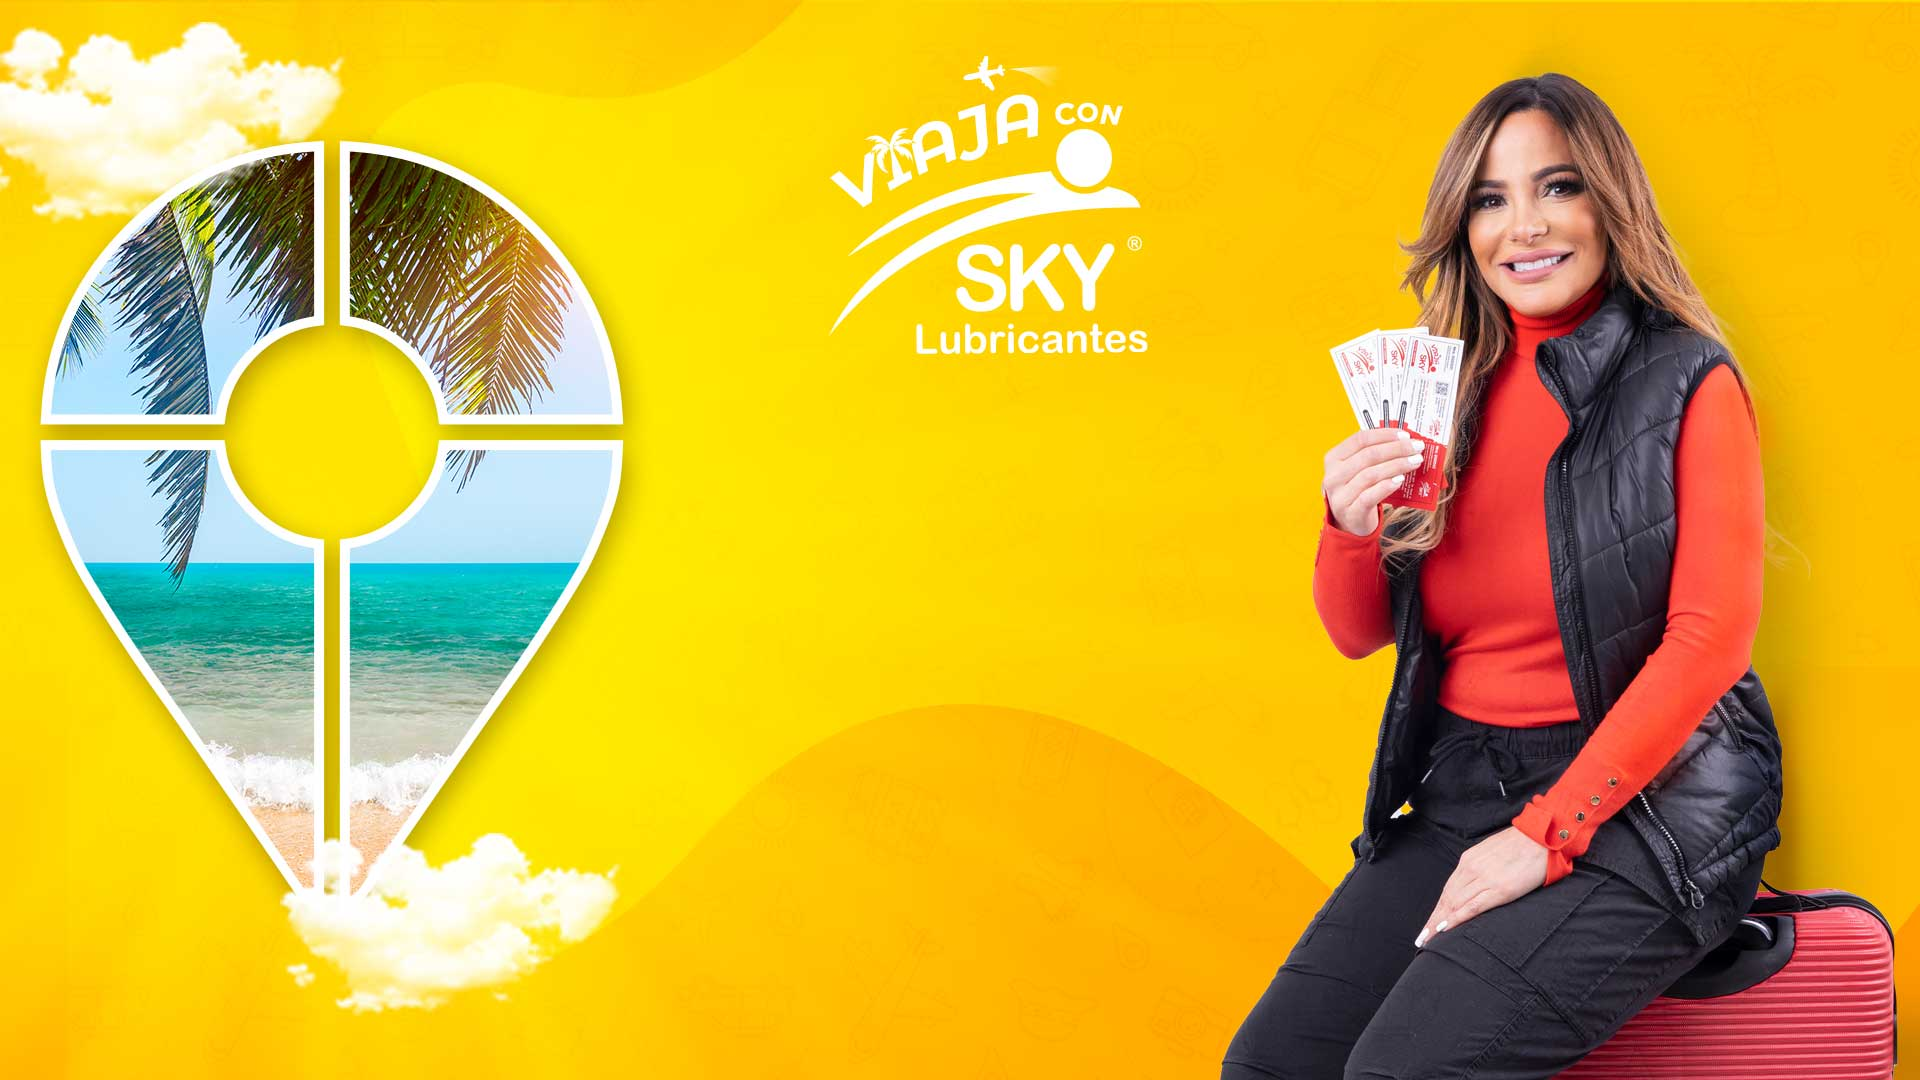
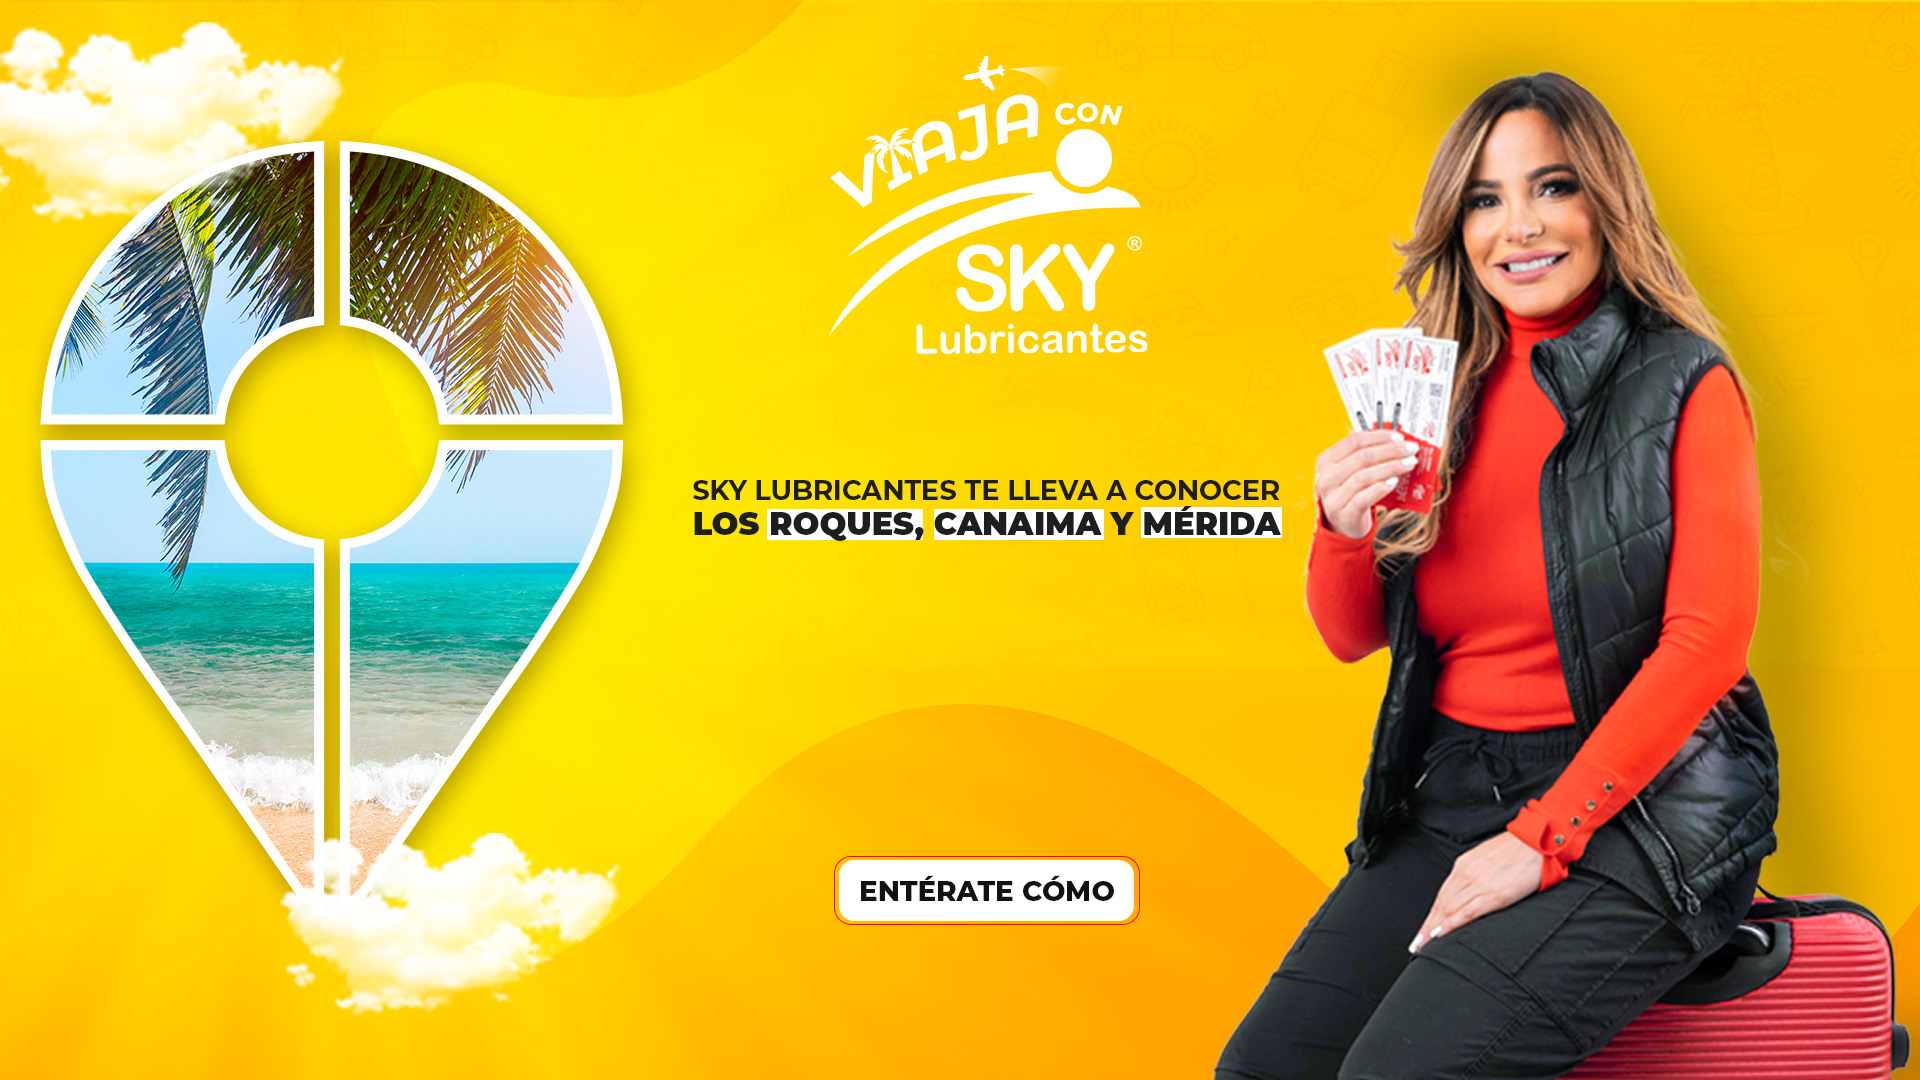
mas cambios

diff --git a/src/data/mainSlider.js b/src/data/mainSlider.js
@@ -14,6 +14,13 @@ export const mainSlider = [
     title: "Sky lubricantes te lleva a ",
     subtitle: "Los Roques, Canaima y Mérida",
     href: "/about",
+  },
+  {
+    id: 3,
+    bg: "banner_3.jpg",
+    title: "Sky lubricantes te lleva a ",
+    subtitle: "Los Roques, Canaima y Mérida",
+    href: "/about",
   }
 ];
 

diff --git a/src/styles/style.css b/src/styles/style.css
@@ -1698,7 +1698,7 @@ input[type="search"]::-webkit-search-results-decoration {
 }
 
 .main-slider .swiper-slide-active .image-layer {
-  opacity: 0.4;
+  opacity: 0.9;
 }
 
 .main-slider-shape-1 {

diff --git a/src/components/MainSlider/MainSlider.js b/src/components/MainSlider/MainSlider.js
@@ -27,7 +27,6 @@ const options = {
   autoplay: {
     delay: 5000,
   },
-  autoHeight: true
 };
 
 const MainSlider = ({
